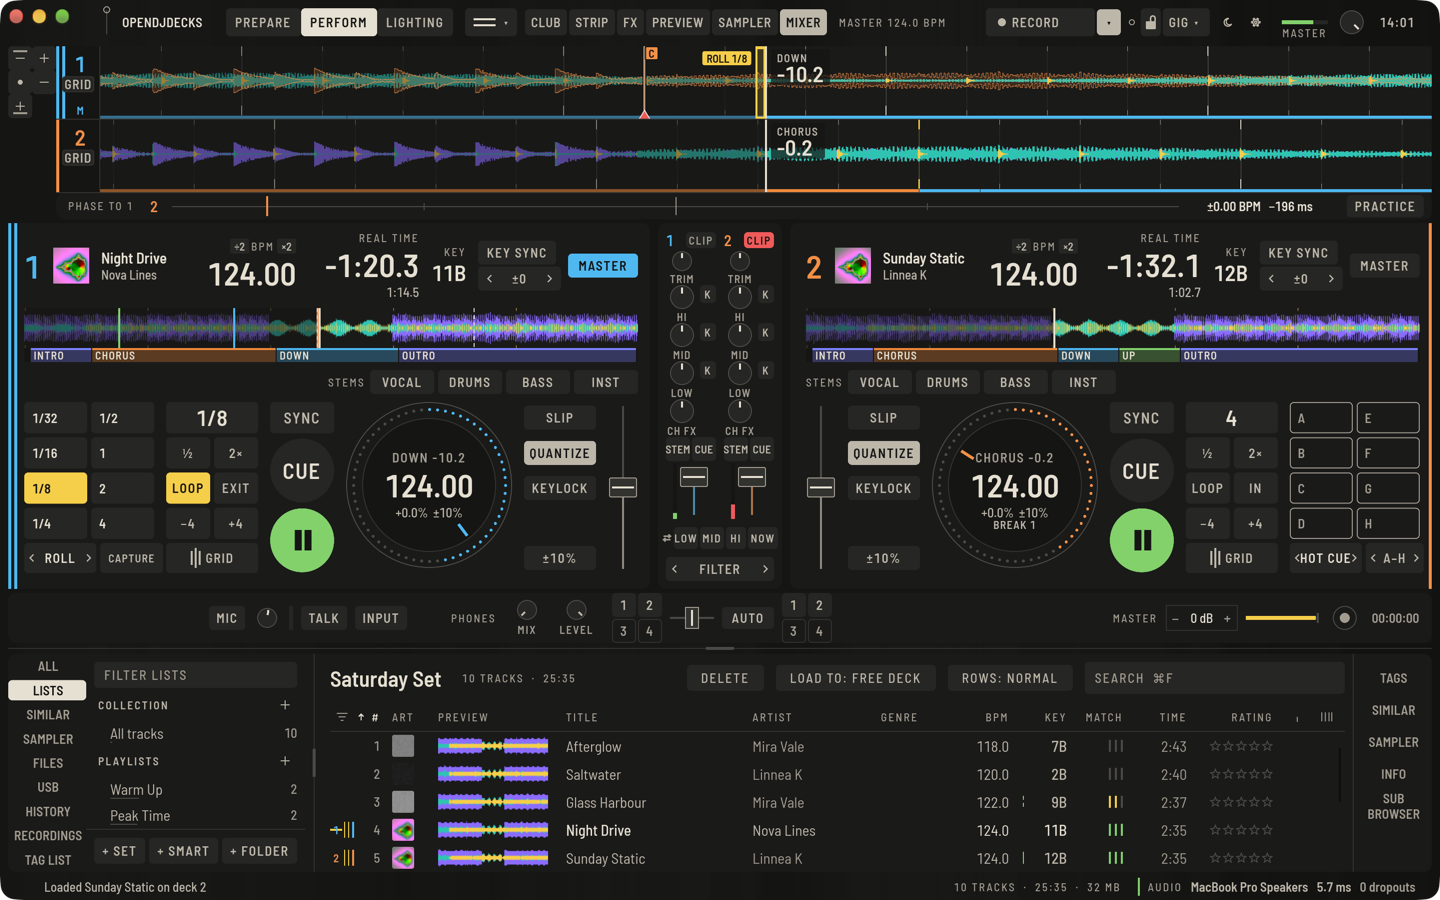
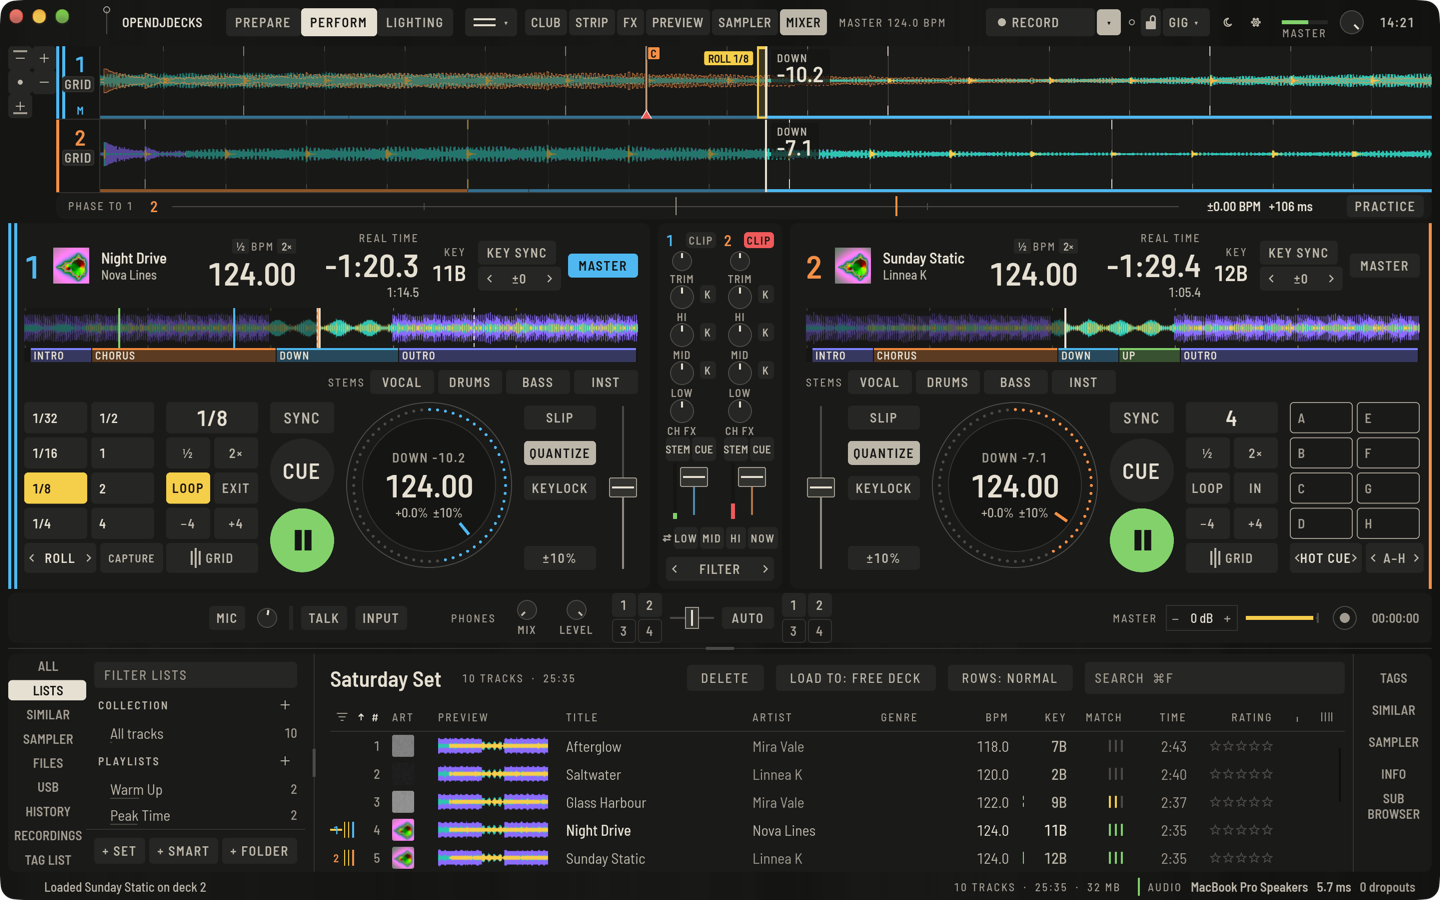
BPM caption keys read ½ and 2×: the small ÷ looked like a plus

diff --git a/crates/od-ui/src/ui_tests/blend.rs b/crates/od-ui/src/ui_tests/blend.rs
@@ -170,7 +170,7 @@ fn phrase_start_overlay_and_phrase_sync() {
     assert!(ui.wait_until(2.0, |u| !u.has("wave.incoming1")));
 }
 
-/// [57] ÷2 and ×2 on the BPM readout change the track's grid (one undo
+/// [57] ½ and 2× on the BPM readout change the track's grid (one undo
 /// step each); the active detection range shows in the app, 150–300
 /// included; a controller can halve and double too.
 #[test]

diff --git a/docs/guide/de/beatgrid.md b/docs/guide/de/beatgrid.md
@@ -79,4 +79,4 @@ Der aktive Bereich steht dort, wo Tracks analysiert werden: als **BPM-BEREICH** 
 
 Für Hardcore, Gabber und andere Musik über 200 BPM wähle **150–300**. Tempi werden dann so gelesen, wie sie gespielt sind, nicht halbiert. In Tests mit erzeugten Click-, Kick-, Kick-und-Snare- und House-Loops bei 170, 200, 220, 250 und 280 BPM hat jeder Bereich, der das Tempo enthält, es auf 0,05 BPM genau gelesen; der Standard **70–180** liest 200 als 100 und 220 als 110, wie er soll. An einer Sammlung echter Platten in diesen Tempi ist das noch nicht geprüft.
 
-Kommt ein einzelner Track trotzdem halb oder doppelt heraus, drücke **÷2** oder **×2** neben **BPM** im Deck-Kopf. Ein Druck halbiert oder verdoppelt das Grid des Tracks, gespeichert mit dem Track und mit einem Schritt rückgängig; ein gesperrtes Grid bleibt, wie es ist. Auf schmaleren Decks liegen dieselben Tasten im **GRID**-Panel. Am Controller: `deck.bpm_half` und `deck.bpm_double`.
+Kommt ein einzelner Track trotzdem halb oder doppelt heraus, drücke **½** oder **2×** neben **BPM** im Deck-Kopf. Ein Druck halbiert oder verdoppelt das Grid des Tracks, gespeichert mit dem Track und mit einem Schritt rückgängig; ein gesperrtes Grid bleibt, wie es ist. Auf schmaleren Decks liegen dieselben Tasten im **GRID**-Panel. Am Controller: `deck.bpm_half` und `deck.bpm_double`.

diff --git a/docs/guide/de/perform-basics.md b/docs/guide/de/perform-basics.md
@@ -15,7 +15,7 @@ Doppelklicke einen Track im Browser, ziehe ihn auf ein Deck oder nutze `⇧←` 
 
 ## Deck-Anzeigen
 
-Der Deck-Kopf zeigt Nummer, Cover, Titel und Artist, **BPM**, Rest- oder verstrichene Zeit, **TONART** und den Sync-Zustand. Der Platter darunter zeigt das Tempo, den Taktzähler und die aktuelle Phrase mit Countdown, und unter dem Tempo die Takte bis zum nächsten Drop und Break ([Phrasen](phrases.md#auf-der-phrase-mixen)). **÷2** und **×2** neben **BPM** halbieren oder verdoppeln das Grid des Tracks ([Beatgrids](beatgrid.md#schnelle-musik-und-halb-oder-doppelt-am-deck)).
+Der Deck-Kopf zeigt Nummer, Cover, Titel und Artist, **BPM**, Rest- oder verstrichene Zeit, **TONART** und den Sync-Zustand. Der Platter darunter zeigt das Tempo, den Taktzähler und die aktuelle Phrase mit Countdown, und unter dem Tempo die Takte bis zum nächsten Drop und Break ([Phrasen](phrases.md#auf-der-phrase-mixen)). **½** und **2×** neben **BPM** halbieren oder verdoppeln das Grid des Tracks ([Beatgrids](beatgrid.md#schnelle-musik-und-halb-oder-doppelt-am-deck)).
 
 Die schmale Wellenform in jedem Deck ist der ganze Track mit Hot Cues und Phrasen. Ein Klick springt dorthin (Needle Search); am Controller tut das der Touch Strip.
 

diff --git a/docs/guide/en/beatgrid.md b/docs/guide/en/beatgrid.md
@@ -79,4 +79,4 @@ The range in use shows where tracks are analysed: as **BPM RANGE** in the **INFO
 
 For hardcore, gabber and other music above 200 BPM, choose **150–300**. Tempos are then read as played, not halved. In tests with generated click, kick, kick-and-snare and house loops at 170, 200, 220, 250 and 280 BPM, every range that holds the tempo read it to within 0.05 BPM; the default **70–180** reads 200 as 100 and 220 as 110, as it should. This has not been checked against a collection of real records at those tempos yet.
 
-When a single track still comes out at half or double, press **÷2** or **×2** beside **BPM** in the deck header. One press halves or doubles the track's grid, stored with the track and undone with one step; a locked grid stays as it is. On narrower decks the same keys are in the **GRID** panel. On a controller: `deck.bpm_half` and `deck.bpm_double`.
+When a single track still comes out at half or double, press **½** or **2×** beside **BPM** in the deck header. One press halves or doubles the track's grid, stored with the track and undone with one step; a locked grid stays as it is. On narrower decks the same keys are in the **GRID** panel. On a controller: `deck.bpm_half` and `deck.bpm_double`.
